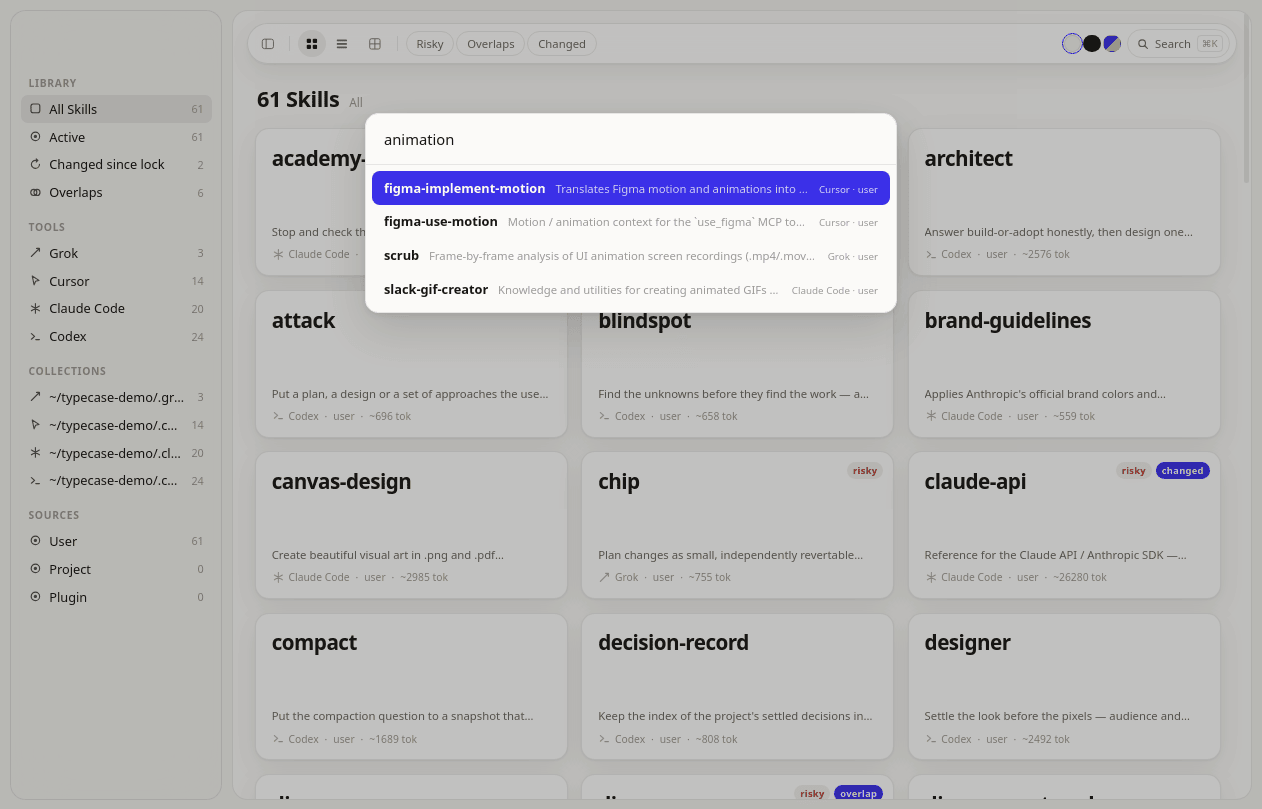
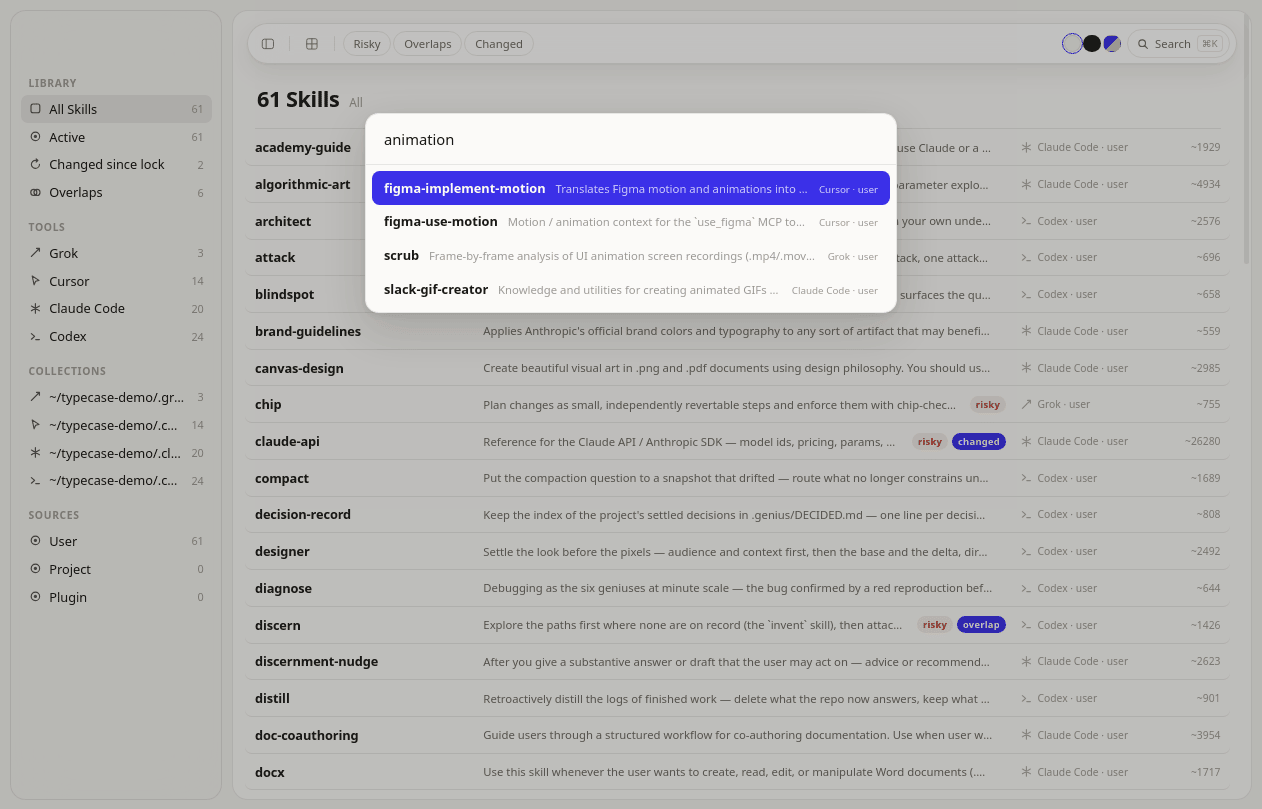
typecase app: compact rows instead of specimen cards
One hairline row per skill — name, one-line description, badges,
tool · scope, token count — with two densities and arrow-key
navigation; the grid/list toggle is gone. ~19 rows visible where the
card grid fit 12. README assets re-captured.

Chip-Override: renderer rework + re-captured README images in one
area; the row list replaces the grid wholesale, so splitting would
leave a broken intermediate UI

diff --git a/skills/typecase/app/renderer/app.js b/skills/typecase/app/renderer/app.js
@@ -35,7 +35,6 @@ const state = {
   scope: null,
   collection: null,     // root dir
   chips: { risky: false, overlaps: false, changed: false },
-  layout: "grid",
   density: "cozy",
   theme: localStorage.getItem("typecase-theme") ||
     (matchMedia("(prefers-color-scheme: dark)").matches ? "dark" : "light"),
@@ -186,11 +185,11 @@ function renderSidebar() {
   }
 }
 
-/* ---------- grid ---------- */
+/* ---------- rows ---------- */
 
 function toolLabel(id) { return TOOLS.find((t) => t.id === id)?.label ?? id; }
 
-function cardBadges(s) {
+function rowBadges(s) {
   const changed = changedKeys();
   const overlaps = overlapNames();
   const dups = dupNames();
@@ -202,7 +201,7 @@ function cardBadges(s) {
   return out.join("");
 }
 
-function renderGrid() {
+function renderRows() {
   const content = $("#content");
   const skills = visibleSkills().sort((a, b) => a.name.localeCompare(b.name));
   const scopeLabel =
@@ -219,36 +218,32 @@ function renderGrid() {
       <h1>${skills.length} Skill${skills.length === 1 ? "" : "s"}</h1>
       <span class="sub">${esc(scopeLabel)}</span>
     </div>`;
-  const grid = document.createElement("div");
-  grid.className = (state.layout === "list" ? "list" : "grid") + (state.density === "compact" ? " compact" : "");
-  grid.id = "grid";
+  const list = document.createElement("div");
+  list.className = "rows-list" + (state.density === "compact" ? " compact" : "");
+  list.id = "rows";
 
   skills.forEach((s, i) => {
-    const card = document.createElement("article");
-    card.className = "card" + (i === state.focusIndex ? " focused" : "");
-    card.tabIndex = 0;
-    card.dataset.key = keyOf(s);
-    if (i === state.focusIndex) card.style.viewTransitionName = "hero";
-    card.innerHTML = `
-      <div class="badges">${cardBadges(s)}</div>
-      <div class="hero">${esc(s.name)}</div>
-      <div class="desc">${esc(s.description || "—")}</div>
-      <div class="meta">
-        <span class="tool-tag">${TOOL_ICONS[s.tool] ?? ""} ${esc(toolLabel(s.tool))}</span>
-        <span>·</span><span>${esc(s.scope)}</span>
-        <span>·</span><span>~${s.tokens} tok</span>
-      </div>`;
-    const open = () => openDetail(keyOf(s), card);
-    card.addEventListener("click", open);
-    card.addEventListener("keydown", (e) => { if (e.key === "Enter") open(); });
-    grid.appendChild(card);
+    const row = document.createElement("div");
+    row.className = "skill-row" + (i === state.focusIndex ? " focused" : "");
+    row.tabIndex = 0;
+    row.dataset.key = keyOf(s);
+    row.innerHTML = `
+      <span class="r-name">${esc(s.name)}</span>
+      <span class="r-desc">${esc(s.description || "—")}</span>
+      <span class="r-badges">${rowBadges(s)}</span>
+      <span class="r-tool">${TOOL_ICONS[s.tool] ?? ""}<span>${esc(toolLabel(s.tool))} · ${esc(s.scope)}</span></span>
+      <span class="r-tok">~${s.tokens}</span>`;
+    const open = () => openDetail(keyOf(s), row.querySelector(".r-name"));
+    row.addEventListener("click", open);
+    row.addEventListener("keydown", (e) => { if (e.key === "Enter") open(); });
+    list.appendChild(row);
   });
   if (!skills.length) {
-    grid.innerHTML = `<div class="empty-hint">Nothing here. ${
+    list.innerHTML = `<div class="empty-hint">Nothing here. ${
       state.library === "changed" ? "Run <code>typecase lock</code>, edit a skill, and changes will appear." : "Try clearing filters."
     }</div>`;
   }
-  wrap.appendChild(grid);
+  wrap.appendChild(list);
   content.replaceChildren(wrap);
   $("#segmented-wrap").hidden = true;
 }
@@ -299,7 +294,7 @@ function renderDetail() {
     </div>
     <div class="detail-hero" style="view-transition-name: hero">${esc(s.name)}</div>
     <div class="detail-sub">${esc(s.description || "")}</div>
-    <div class="detail-badges">${cardBadges(s)}</div>
+    <div class="detail-badges">${rowBadges(s)}</div>
     ${state.showFrontmatter ? `<div class="frontmatter-pop">${esc(JSON.stringify(s.frontmatter, null, 2))}</div>` : ""}
     <div id="tab-body"></div>`;
   content.replaceChildren(el);
@@ -422,21 +417,12 @@ function renderTabHistory(body, s, { lockEntry, change }) {
 
 /* ---------- keyboard ---------- */
 
-function gridColumns() {
-  const cards = document.querySelectorAll("#grid .card");
-  if (cards.length < 2) return 1;
-  const top0 = cards[0].offsetTop;
-  let n = 1;
-  while (n < cards.length && cards[n].offsetTop === top0) n++;
-  return n;
-}
-
 function moveFocus(delta) {
-  const cards = [...document.querySelectorAll("#grid .card")];
-  if (!cards.length) return;
-  state.focusIndex = Math.max(0, Math.min(cards.length - 1, (state.focusIndex < 0 ? 0 : state.focusIndex + delta)));
-  cards.forEach((c, i) => c.classList.toggle("focused", i === state.focusIndex));
-  cards[state.focusIndex].scrollIntoView({ block: "nearest", behavior: prefersReduced ? "auto" : "smooth" });
+  const rows = [...document.querySelectorAll("#rows .skill-row")];
+  if (!rows.length) return;
+  state.focusIndex = Math.max(0, Math.min(rows.length - 1, (state.focusIndex < 0 ? 0 : state.focusIndex + delta)));
+  rows.forEach((r, i) => r.classList.toggle("focused", i === state.focusIndex));
+  rows[state.focusIndex].scrollIntoView({ block: "nearest", behavior: prefersReduced ? "auto" : "smooth" });
 }
 
 document.addEventListener("keydown", (e) => {
@@ -456,14 +442,11 @@ document.addEventListener("keydown", (e) => {
     return;
   }
   if (e.target.tagName === "INPUT") return;
-  const cols = gridColumns();
-  if (e.key === "ArrowRight") { e.preventDefault(); moveFocus(1); }
-  else if (e.key === "ArrowLeft") { e.preventDefault(); moveFocus(-1); }
-  else if (e.key === "ArrowDown") { e.preventDefault(); moveFocus(cols); }
-  else if (e.key === "ArrowUp") { e.preventDefault(); moveFocus(-cols); }
+  if (e.key === "ArrowDown" || e.key === "ArrowRight") { e.preventDefault(); moveFocus(1); }
+  else if (e.key === "ArrowUp" || e.key === "ArrowLeft") { e.preventDefault(); moveFocus(-1); }
   else if (e.key === "Enter" && state.focusIndex >= 0) {
-    const card = document.querySelectorAll("#grid .card")[state.focusIndex];
-    if (card) openDetail(card.dataset.key, card);
+    const row = document.querySelectorAll("#rows .skill-row")[state.focusIndex];
+    if (row) openDetail(row.dataset.key, row.querySelector(".r-name"));
   }
 });
 
@@ -526,8 +509,6 @@ $("#density-btn").addEventListener("click", () => {
   $("#density-btn").classList.toggle("active", state.density === "compact");
   render();
 });
-for (const b of document.querySelectorAll("#layout-group .tb-btn"))
-  b.addEventListener("click", () => { state.layout = b.dataset.layout; render(); });
 for (const b of document.querySelectorAll(".chip"))
   b.addEventListener("click", () => {
     state.chips[b.dataset.chip] = !state.chips[b.dataset.chip];
@@ -543,11 +524,9 @@ for (const b of document.querySelectorAll("#segmented button"))
 /* ---------- render root ---------- */
 
 function render() {
-  for (const b of document.querySelectorAll("#layout-group .tb-btn"))
-    b.classList.toggle("active", b.dataset.layout === state.layout);
   renderSidebar();
   if (state.view === "detail") renderDetail();
-  else renderGrid();
+  else renderRows();
 }
 
 async function load() {

diff --git a/skills/typecase/app/renderer/app.css b/skills/typecase/app/renderer/app.css
@@ -196,46 +196,42 @@ body.mac { background: transparent; } /* let window vibrancy show through */
 .count-head h1 { font-size: 22px; font-weight: 700; letter-spacing: -0.02em; }
 .count-head .sub { color: var(--ink-3); font-size: 12px; }
 
-/* Specimen grid */
-.grid { display: grid; grid-template-columns: repeat(auto-fill, minmax(236px, 1fr)); gap: 14px; }
-.grid.compact { grid-template-columns: repeat(auto-fill, minmax(188px, 1fr)); gap: 10px; }
-
-.card {
-  position: relative;
-  border-radius: var(--radius-card);
-  background: var(--card);
-  border: 0.5px solid var(--hairline);
-  box-shadow: var(--shadow);
-  padding: 18px 16px 14px;
-  min-height: 150px;
-  display: flex; flex-direction: column;
-  transition: transform var(--t-fast) var(--spring), box-shadow var(--t-fast) var(--spring);
+/* Compact skill rows */
+.rows-list { border-top: 0.5px solid var(--hairline); }
+.skill-row {
+  display: flex; align-items: center; gap: 14px;
+  padding: 9px 10px;
+  margin: 0 -10px;
+  border-bottom: 0.5px solid var(--hairline);
+  border-radius: 7px;
   outline: none;
 }
-.grid.compact .card { min-height: 118px; padding: 14px 13px 11px; }
-.card:hover { transform: translateY(-2px); box-shadow: var(--shadow-float); }
-.card:focus-visible { outline: 2px solid var(--accent); outline-offset: 2px; }
-.card.focused { outline: 2px solid var(--accent); outline-offset: 2px; }
-
-/* Note: clamped boxes use margins, not padding — webkit-box clipping
-   lets clipped lines show through padding. */
-.card .hero {
-  flex: 1;
-  font-size: 21px; font-weight: 700; letter-spacing: -0.025em; line-height: 1.12;
-  overflow-wrap: anywhere;
-  display: -webkit-box; -webkit-line-clamp: 3; -webkit-box-orient: vertical; overflow: hidden;
-  margin-bottom: 10px;
+.rows-list.compact .skill-row { padding: 5px 10px; }
+.skill-row:hover { background: var(--hover); }
+.skill-row:focus-visible, .skill-row.focused { background: var(--active-row); }
+.skill-row .r-name {
+  flex: none; width: 218px;
+  font-size: 13px; font-weight: 600; letter-spacing: -0.01em;
+  white-space: nowrap; overflow: hidden; text-overflow: ellipsis;
 }
-.grid.compact .card .hero { font-size: 16.5px; -webkit-line-clamp: 2; }
-.card .desc {
-  color: var(--ink-2); font-size: 11.5px; line-height: 1.35;
-  display: -webkit-box; -webkit-line-clamp: 1; -webkit-box-orient: vertical; overflow: hidden;
-  margin-bottom: 8px;
+.rows-list.compact .skill-row .r-name { font-size: 12px; }
+.skill-row .r-desc {
+  flex: 1; min-width: 0;
+  color: var(--ink-2); font-size: 11.5px;
+  white-space: nowrap; overflow: hidden; text-overflow: ellipsis;
 }
-.card .meta { display: flex; align-items: center; gap: 6px; font-size: 10.5px; color: var(--ink-3); }
-.card .meta .tool-tag { display: inline-flex; align-items: center; gap: 4px; }
-.card .meta svg { opacity: 0.8; }
-.card .badges { position: absolute; top: 10px; right: 10px; display: flex; gap: 4px; }
+.skill-row .r-badges { flex: none; display: flex; gap: 4px; }
+.skill-row .r-tool {
+  flex: none; width: 138px;
+  display: inline-flex; align-items: center; gap: 5px;
+  font-size: 10.5px; color: var(--ink-3);
+  white-space: nowrap; overflow: hidden;
+}
+.skill-row .r-tool svg { flex: none; opacity: 0.8; }
+.skill-row .r-tok {
+  flex: none; width: 52px; text-align: right;
+  font-size: 10.5px; color: var(--ink-3); font-variant-numeric: tabular-nums;
+}
 
 .badge {
   font-size: 9.5px; font-weight: 600; letter-spacing: 0.03em;
@@ -245,14 +241,6 @@ body.mac { background: transparent; } /* let window vibrancy show through */
 .badge.risky { background: var(--warn-bg); color: var(--danger); }
 .badge.dup, .badge.overlap { background: var(--accent); color: var(--accent-ink); }
 .badge.changed { background: var(--accent); color: var(--accent-ink); }
-
-/* List layout */
-.list .card { min-height: 0; flex-direction: row; align-items: center; gap: 14px; padding: 10px 14px; }
-.list { display: flex; flex-direction: column; gap: 8px; }
-.list .card .hero { flex: none; width: 240px; font-size: 15px; -webkit-line-clamp: 1; padding: 0; }
-.list .card .desc { flex: 1; -webkit-line-clamp: 1; padding: 0; }
-.list .card .meta { flex: none; }
-.list .card .badges { position: static; margin-left: 8px; order: 10; }
 
 /* ---- Detail view ---- */
 .detail { max-width: 760px; margin: 0 auto; }

diff --git a/skills/typecase/app/renderer/index.html b/skills/typecase/app/renderer/index.html
@@ -20,15 +20,7 @@
           <svg viewBox="0 0 16 16" width="14" height="14"><rect x="1.5" y="2.5" width="13" height="11" rx="2.5" fill="none" stroke="currentColor"/><line x1="6" y1="2.5" x2="6" y2="13.5" stroke="currentColor"/></svg>
         </button>
         <div class="tb-sep"></div>
-        <div class="tb-group" id="layout-group">
-          <button class="tb-btn" data-layout="grid" title="Grid view" aria-label="Grid view">
-            <svg viewBox="0 0 16 16" width="14" height="14"><rect x="2" y="2" width="5" height="5" rx="1.2" fill="currentColor"/><rect x="9" y="2" width="5" height="5" rx="1.2" fill="currentColor"/><rect x="2" y="9" width="5" height="5" rx="1.2" fill="currentColor"/><rect x="9" y="9" width="5" height="5" rx="1.2" fill="currentColor"/></svg>
-          </button>
-          <button class="tb-btn" data-layout="list" title="List view" aria-label="List view">
-            <svg viewBox="0 0 16 16" width="14" height="14"><rect x="2" y="3" width="12" height="2" rx="1" fill="currentColor"/><rect x="2" y="7" width="12" height="2" rx="1" fill="currentColor"/><rect x="2" y="11" width="12" height="2" rx="1" fill="currentColor"/></svg>
-          </button>
-        </div>
-        <button class="tb-btn" id="density-btn" title="Card density">
+        <button class="tb-btn" id="density-btn" title="Row density">
           <svg viewBox="0 0 16 16" width="14" height="14"><rect x="2" y="2" width="12" height="12" rx="2" fill="none" stroke="currentColor"/><line x1="2" y1="8" x2="14" y2="8" stroke="currentColor"/><line x1="8" y1="2" x2="8" y2="14" stroke="currentColor"/></svg>
         </button>
         <div class="tb-sep"></div>

diff --git a/skills/typecase/README.md b/skills/typecase/README.md
@@ -11,7 +11,7 @@ structured record, and gives you three layers on top:
 3. **A lockfile and changelog** — `lock`, `diff`, `pin`, and a running
    `TYPECASE.md` with one plain-language paragraph per skill change.
 
-<img src="assets/hero.png" alt="Typecase app: specimen grid of installed skills and the detail view of one skill" width="100%" />
+<img src="assets/hero.png" alt="Typecase app: compact row list of installed skills and the detail view of one skill" width="100%" />
 
 *All screenshots show public open-source skill packs only (Anthropic's
 [skills](https://github.com/anthropics/skills), Figma's
@@ -123,14 +123,14 @@ navigation, ⌘K search). It imports the same parser library as the CLI —
 no duplicated parsing logic — and live-reloads when any skill folder
 changes on disk.
 
-<img src="assets/app-grid-dark.png" alt="Typecase app in dark mode: specimen card grid" width="100%" />
+<img src="assets/app-rows-dark.png" alt="Typecase app in dark mode: compact row list" width="100%" />
 
 - **Sidebar** — Library (All, Active, Changed since lock, Overlaps),
   Tools, Collections (one per skill root), Sources (user / project /
   plugin scope).
-- **Specimen grid** — each card leads with the skill name, one-line
-  description, and tool · scope · token size, with duplicate / overlap /
-  risky / changed badges. Grid or list, two densities.
+- **Row list** — one compact hairline row per skill: name, one-line
+  description, duplicate / overlap / risky / changed badges, tool ·
+  scope, token size. Two densities; arrow-key navigation.
 - **Detail view** — hairline rows for triggers, when (not) to use, tools
   it can call with risky flags, files referenced, path (Reveal in
   Finder / Open in Cursor), overlaps, and lock state; an info button
@@ -141,7 +141,7 @@ changes on disk.
 
 <img src="assets/app-history-light.png" alt="History tab showing a real since-lock diff of the frontend-design skill" width="100%" />
 <img src="assets/app-search-light.png" alt="Command-K fuzzy search palette" width="100%" />
-<img src="assets/app-grid-accent.png" alt="Accent canvas theme" width="100%" />
+<img src="assets/app-rows-accent.png" alt="Accent canvas theme" width="100%" />
 
 Run it in development:
 
